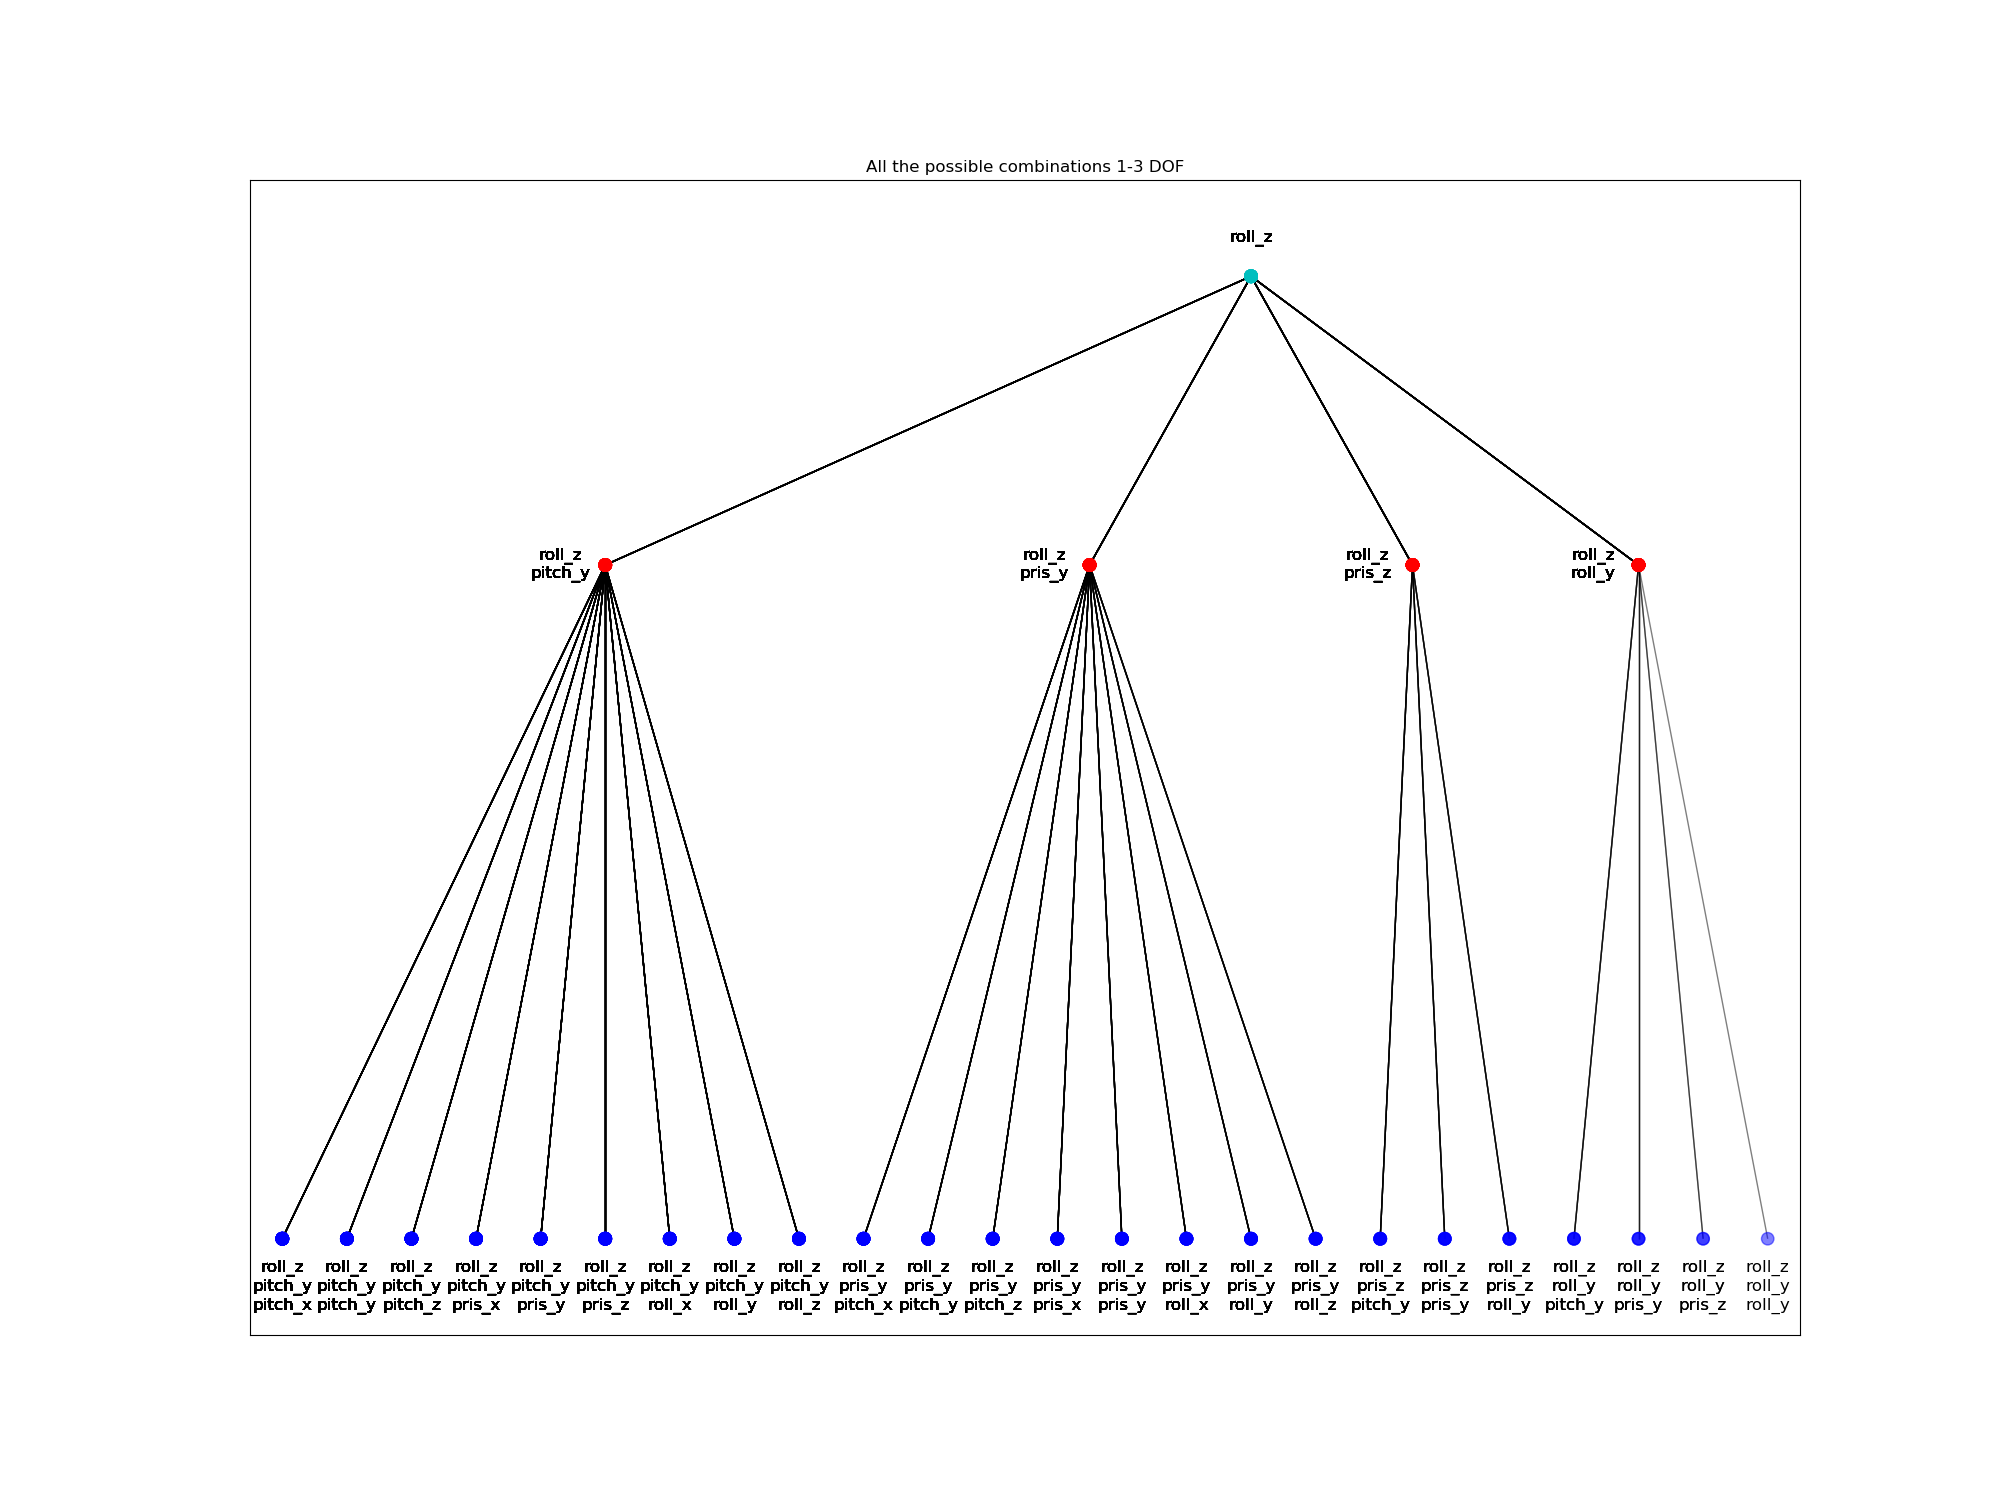
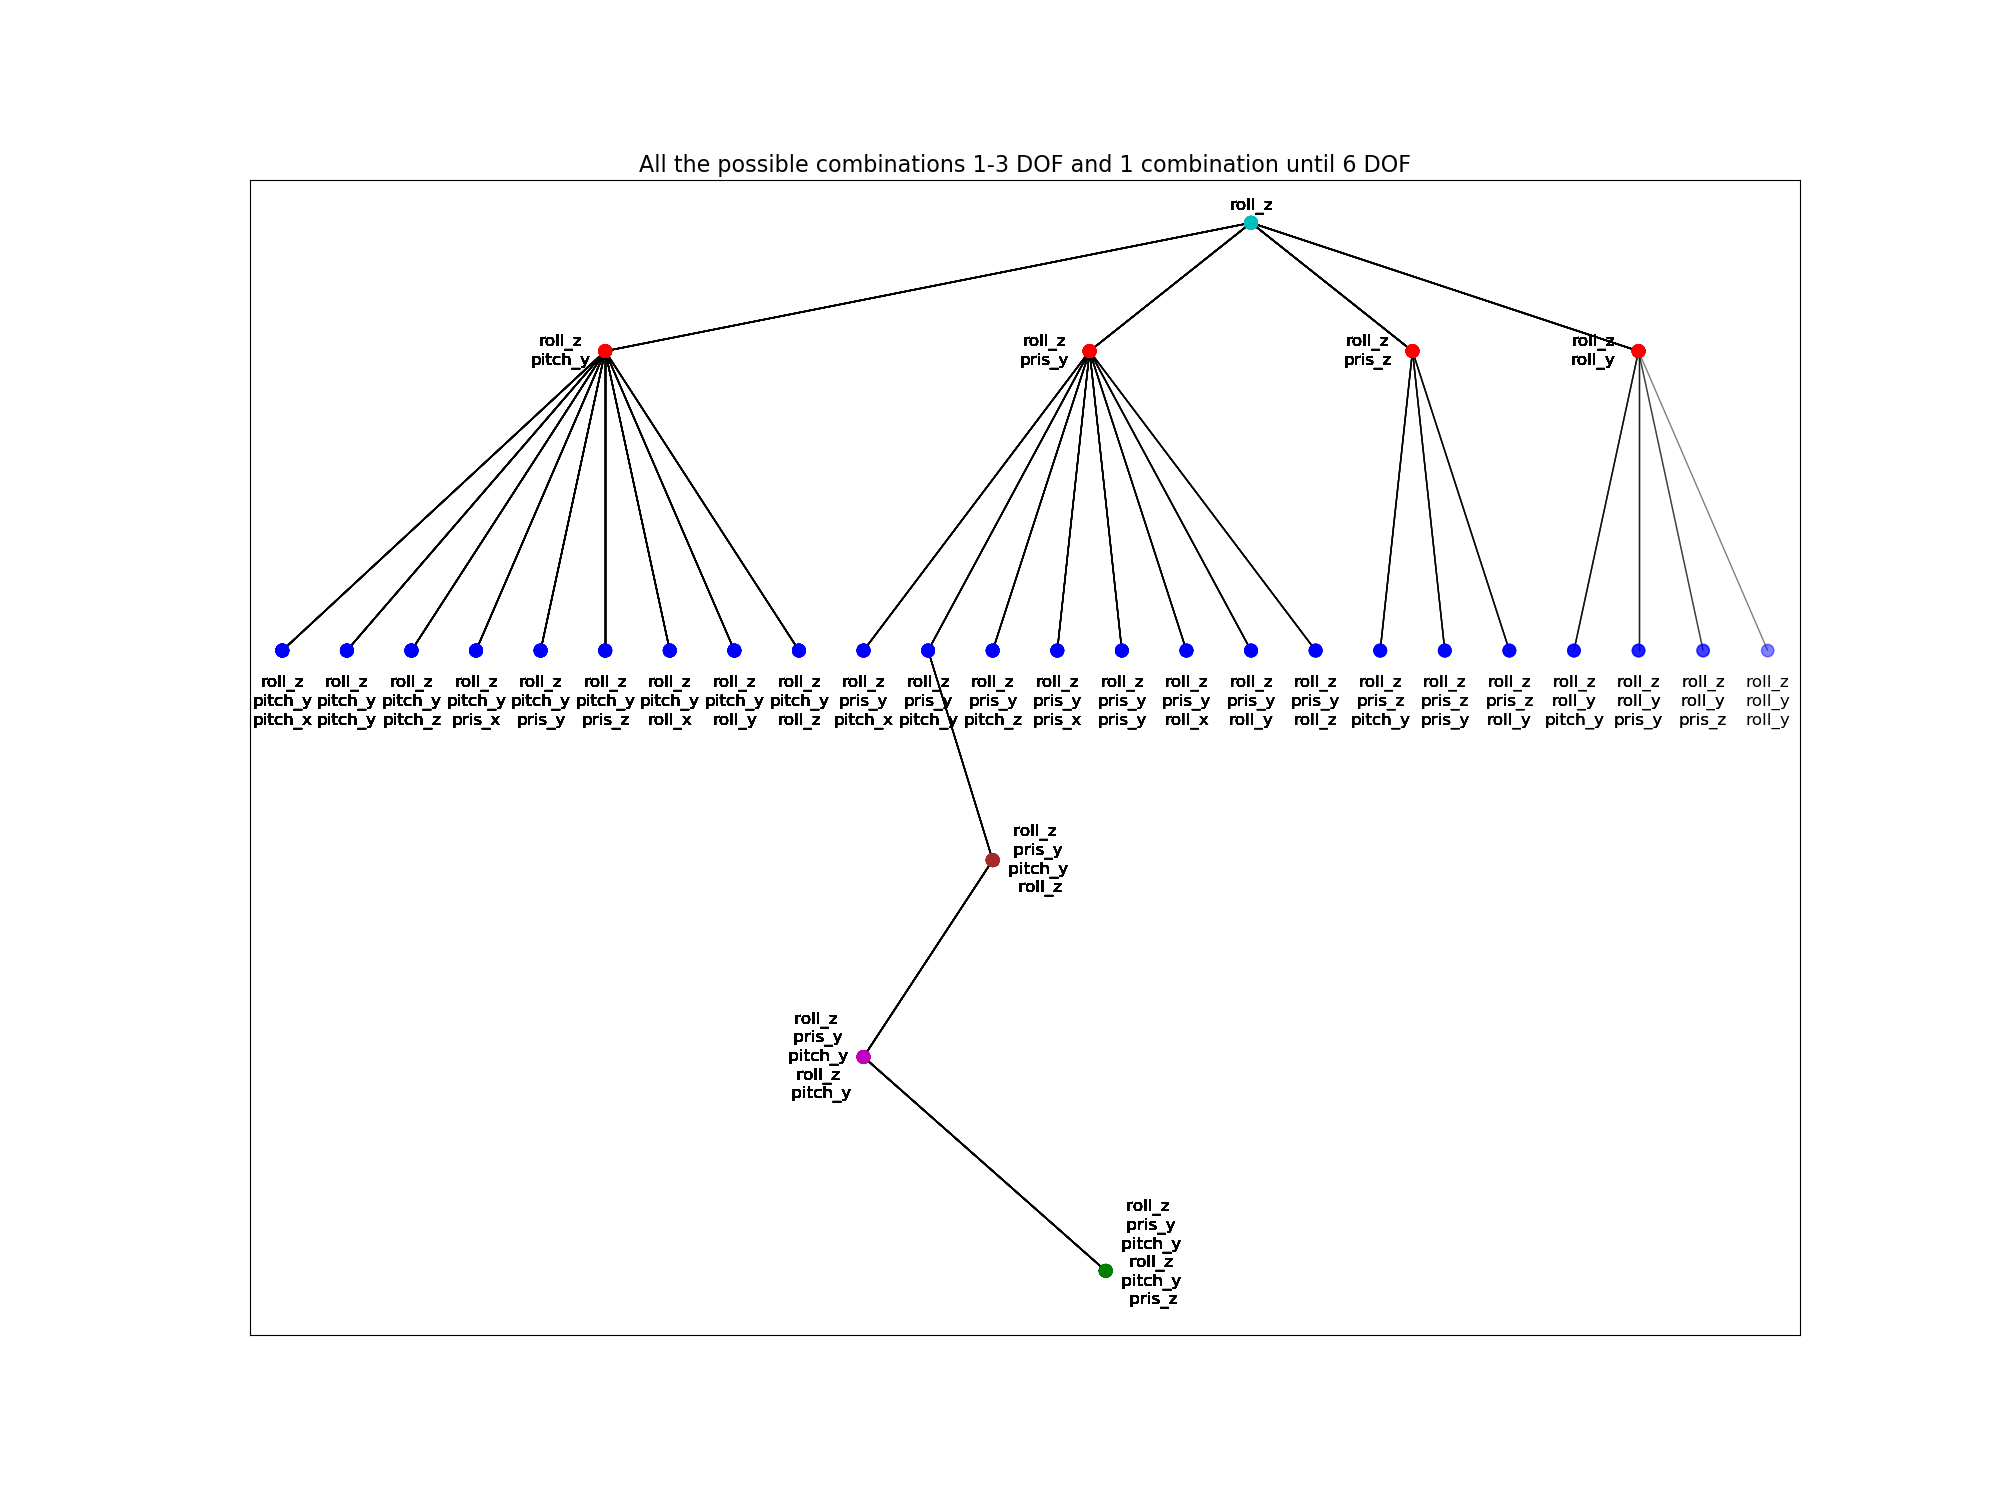
update the combinations generator

diff --git a/Simulator/combs.py b/Simulator/combs.py
@@ -73,7 +73,7 @@ class Tree:
         self.G4 = nx.Graph()  # 1-3 DOF tree
         self.colors = ["r", "b", "g", "navy", "k", "c", "m", "olive", "teal"]
 
-    def tree_create(self, n_from=0, n_to=1, all_trees=True, plot=False, save=True):
+    def tree_create(self, n_from=0, n_to=1, all_trees=True, plot=True, save=False):
         dofs = self.dofs
         x3_pos = 0
         if all_trees:
@@ -137,9 +137,6 @@ class Tree:
 
         dof5.append(dof_flags)
         dof5.remove(dof5[0])
-        # for d in range(len(dof5)):
-        #     for do in dof5[d]:
-        #         do.count(dof5[d])
         for i in range(len(indices[0]) - 1):
             dof4_indices = [j for j in range(indices[1].index(indices[0][i]), indices[1].index(indices[0][i + 1]))]
             dof.append([[dof3[i]], dof4[dof4_indices[0]:dof4_indices[-1] + 1], dof5[dof4_indices[0]:dof4_indices[-1] + 1],
@@ -175,9 +172,15 @@ class Tree:
             elif pos[p][1] == self.pos_low:
                 pos[p] = (pos[p][0] + self.x_offset, pos[p][1] - self.y_offset*2)
             elif pos[p][1] == 150:
-                pos[p] = (pos[p][0] + self.x_offset, pos[p][1] - self.y_offset-1)
+                pos[p] = (pos[p][0] + self.x_offset, pos[p][1] - self.y_offset-8)
             elif pos[p][1] == 220:
                 pos[p] = (pos[p][0] + self.x_offset-1400, pos[p][1] + 0*self.y_offset)
+            elif pos[p][1] == 101:
+                pos[p] = (pos[p][0] + self.x_offset+1400, pos[p][1] + 0*self.y_offset)
+            elif pos[p][1] == 55:
+                pos[p] = (pos[p][0] + self.x_offset-1400, pos[p][1] + 0*self.y_offset)
+            elif pos[p][1] == 5:
+                pos[p] = (pos[p][0] + self.x_offset+1400, pos[p][1] + self.y_offset)
             else:
                 pos[p] = (pos[p][0] + self.x_offset, pos[p][1] + self.y_offset)
         labeldescr = nx.draw_networkx_labels(g, pos=pos, font_size=f_size, labels=nodelabeldict)
@@ -230,7 +233,7 @@ class Tree:
         plt.xlim(min_x-150, max_x + 150)
 
     def create_3dof_tree(self, dof, pos):
-        plt.figure("until3",figsize=(20.0, 15.0))
+        plt.figure("until3", figsize=(20.0, 15.0))
         self.G4.add_node("roll_z", pos=(30000, 250), node_color="c")
         self.G4.add_node("roll_z->pitch_y", pos=(10000, 220), node_color="r")
         self.G4.add_node("roll_z->pris_z", pos=(35000, 220), node_color="r")
@@ -249,10 +252,18 @@ class Tree:
             self.G4.add_edge("roll_z->pris_y", dof[0])
         elif "roll_z->roll_y" in dof[0]:
             self.G4.add_edge("roll_z->roll_y", dof[0])
+        self.G4.add_node("roll_z \n pris_y \n pitch_y \n roll_z", pos=(22000, 101), node_color="brown")
+        self.G4.add_node("roll_z \n pris_y \n pitch_y \n roll_z \n pitch_y", pos=(18000, 55), node_color="m")
+        self.G4.add_node("roll_z \n pris_y \n pitch_y \n roll_z \n pitch_y \n pris_z", pos=(25500, 5), node_color="g")
+        if "roll_z->pris_y->pitch_y" in dof[0]:
+            self.G4.add_edge("roll_z \n pris_y \n pitch_y \n roll_z", "roll_z->pris_y->pitch_y")
+        self.G4.add_edge("roll_z \n pris_y \n pitch_y \n roll_z", "roll_z \n pris_y \n pitch_y \n roll_z \n pitch_y")
+        self.G4.add_edge("roll_z \n pris_y \n pitch_y \n roll_z \n pitch_y \n pris_z",
+                         "roll_z \n pris_y \n pitch_y \n roll_z \n pitch_y")
         self.tree_visuality(self.G4, True)
-        plt.ylim(140, 260)
+        plt.ylim(-10, 260)
         plt.xlim(-1000, 47000)
-        plt.title("All the possible combinations 1-3 DOF")
+        plt.title("All the possible combinations 1-3 DOF and 1 combination until 6 DOF", fontsize=16)
         plt.savefig("combinations/until3dof.png", format='png')
 
 

diff --git a/Code/simulator.py b/Code/simulator.py
@@ -277,7 +277,7 @@ if __name__ == '__main__':
     if username == "tamir":  # tamir laptop
         nums = 30  # how many arms to send to simulator each time
         wait1_replace = 1.7
-        wait2_replace = 1.4
+        wait2_replace = 1.3
     elif username == "arl_main":  # lab
         nums = 30  # how many arms to send to simulator each time
         wait1_replace = 1.7
